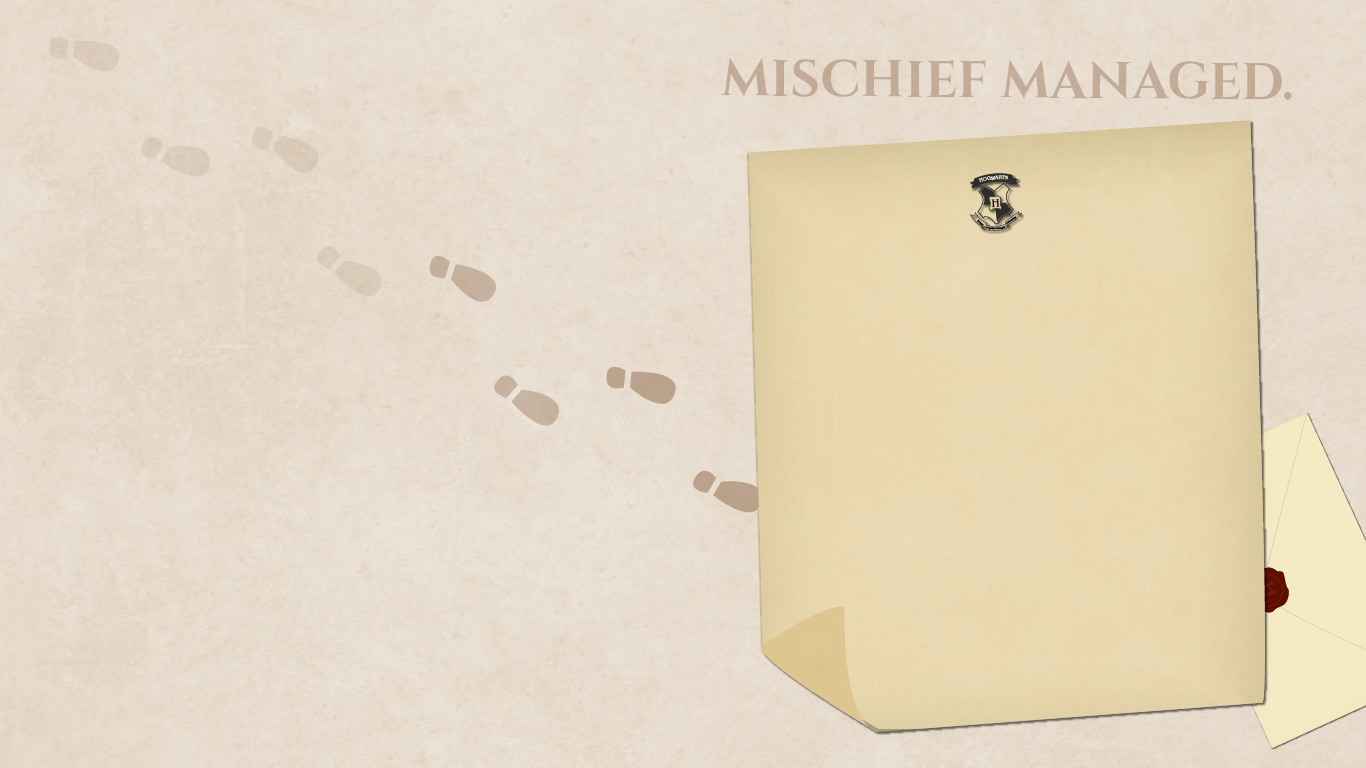
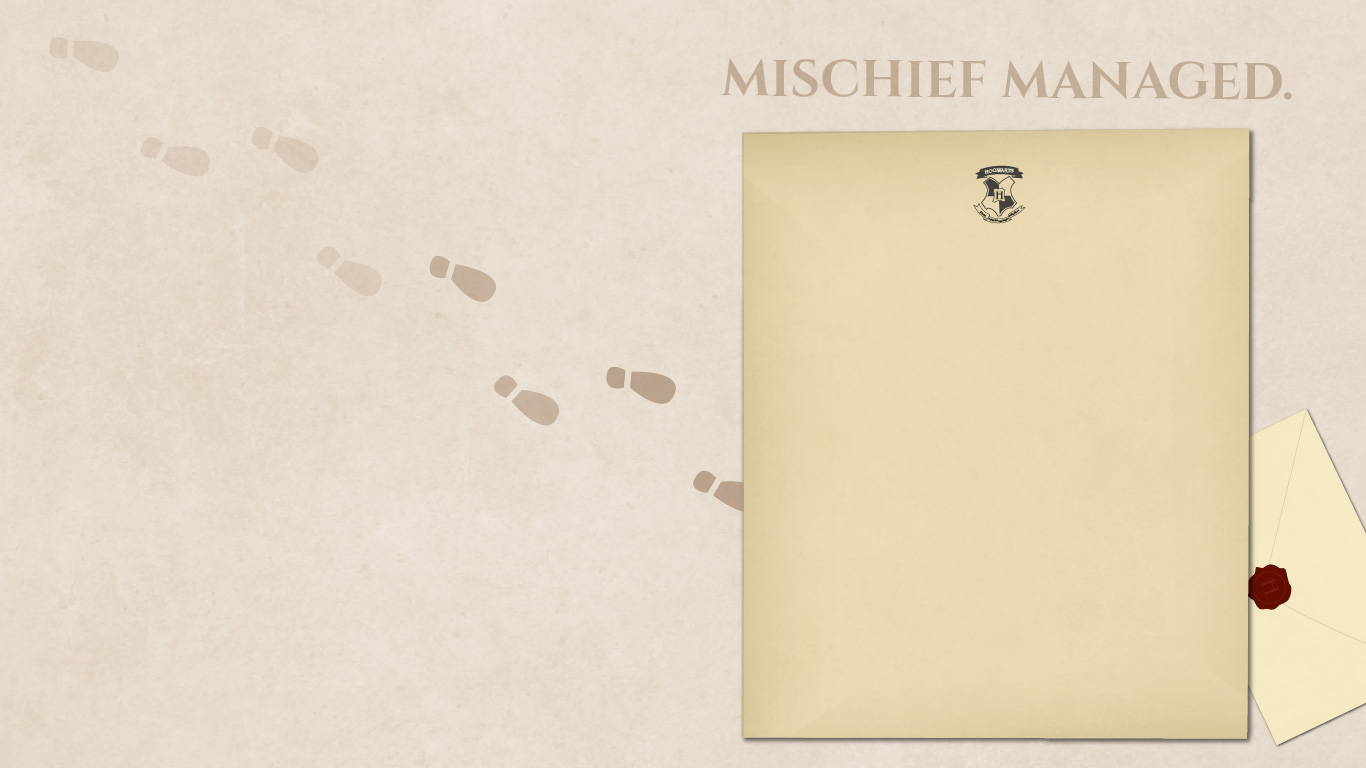
Added invitation background.

diff --git a/studio1/script.js b/studio1/script.js
@@ -28,23 +28,29 @@ function processForm() {
   var fraction = document.f.fraction.value;
   var measurementTime = document.f.measurementTime.value;
 
+
+  document.body.style.backgroundImage = "url('../images/studio1-bg2.jpg')"; //changes background to invitation letter
+
+  //writes letter based on input
   opening.innerHTML = "Dear " + userName + ",";
 
   letterContent.innerHTML = "We are pleased to inform you that you have been accepted to Hogwarts School of Witchcraft and Wizardry.<br> <br>Enclosed is a list of equipments, including " + noun1 +
     " and " + noun2 + ",which will be required for your courses. All items of the supply list can be purchased at Diagon Valley, totaling at " + number1 +
-    "galleons. We await your arrival at Hogwarts School of Witchcraft and Wizardry no later than " + date1 +
-    ".<br>  <br>To enter, please use the enclosed travel ticket and make your way to the " + stationName +
-    "Station and enter through Platform " + number2 + " " + fraction + " to take the Hogwarts Express.<br> <br>Students shall be required to report to the Chamber of " + noun3 +
+    " galleons. We await your arrival at Hogwarts School of Witchcraft and Wizardry no later than " + date1 +
+    ".<br>  <br>To get to school, please use the enclosed travel ticket and make your way to the " + stationName +
+    "Station, entering through Platform " + number2 + " " + fraction + " to take the Hogwarts Express.<br> <br>Students shall be required to report to the Chamber of " + noun3 +
     " upon arrival. Your term will begin " + number3 + " " + measurementTime + " after your arrival. We look forward to to receiving you as part of the new generation of Hogwarts Heritage.<br>";
 
   closing.innerHTML = "Yours Sincerely, <br> <strong>Minerva McGonagall</strong><br> Deputy Headmistress";
 
+  //stops from reloading;
   return false;
+
 }
 
 console.log("resetting");
 
 function resetForm() {
   letterContent.innerHTML = "";
-  //only hide the results when reseting the form, but show the default flag
+  //hides the results when reseting the form
 }

diff --git a/studio1/styles.css b/studio1/styles.css
@@ -8,15 +8,19 @@ body {
   background-position: center center;
 }
 
-header img {
-  margin: 1% 3% 0% 3%;
+/*changes form styles */
+article img {
+  margin-top: 2%;
 }
 
 article {
   float: left;
-  margin-left: 5%;
-  border-right: solid #b79d63 0.5px;
+  padding-left: 5%;
   padding-right: 5%;
+  background-color: rgba(255, 255, 255, 0.5);
+  margin-left: 2%;
+  margin-right: 5%;
+  margin-top: 1%;
 }
 
 article h2{
@@ -26,17 +30,10 @@ article h2{
   font-weight: bold;
 }
 
-section h2 {
-  font-family: 'Cinzel Decorative', cursive;
-  font-size: 15px;
-  font-weight: bold;
-  line-height: 40px;
-  text-align: center;
-}
-
 form {
   margin-top: -2%;
 }
+
 label {
   width: 100px;
   text-align: left;
@@ -67,27 +64,28 @@ div {
   padding: 5px;
 }
 
-#letterBackground {
-  position: absolute;
-  right: 2%;
-  top: 10%;
-  width: 600px;
-  margin-top:
+/*changes result screen styles*/
+section h2 {
+  font-family: 'Cinzel Decorative', cursive;
+  font-size: 15px;
+  font-weight: bold;
+  line-height: 40px;
+  text-align: center;
 }
 
+/*changes output style on the right side*/
 #results {
+  position: absolute;
+  font-size: 80%;
   float: right;
-  margin-right: 10%;
-  margin-top: -100px;
-  width: 500px;
+  margin: 9em 2% 0.5% 57%;
+  max-width: 30%;
+  max-height: 425px;
   font-family: 'EB Garamond', serif;
   line-height: 20px;
-  background-color: #f9f7ea;
-  border-radius: 10px;
   padding: 20px;
+  overflow: scroll;
 }
-
-
 
 #opening {
   font-size: 25px;
@@ -99,6 +97,8 @@ div {
   line-height: 25px;
 
 }
+
+/*adjusts footer styles*/
 
 footer {
   position: fixed;
@@ -115,11 +115,12 @@ footer a {
   padding-right: 10px;
 }
 
+footer a:hover {
+  color: white;
+}
+
+/*adds border between two links*/
 #css {
   border-left: solid #93680b 1px;
   padding-left: 10px;
-}
-
-footer a:hover {
-  color: white;
 }

diff --git a/studio1/index.html b/studio1/index.html
@@ -13,10 +13,10 @@
 
 <body>
   <header>
-    <img src="../images/harryp.png" alt="Are you ready to enter the World of Magic?" width="400">
   </header>
 
 <article>
+  <img src="../images/harryp.png" alt="Are you ready to enter the World of Magic?" width="400">
   <h2>Fill out the following to find your true calling:</h2>
   <form name="f">
     <div>
@@ -72,7 +72,7 @@
 </article>
 
 <section id="results">
-  <h2>The magic is waiting for you.</h2>
+  <h2></h2>
   <p id="opening"></p>
   <p id="letterContent"></p>
   <p id= "closing"></p>
